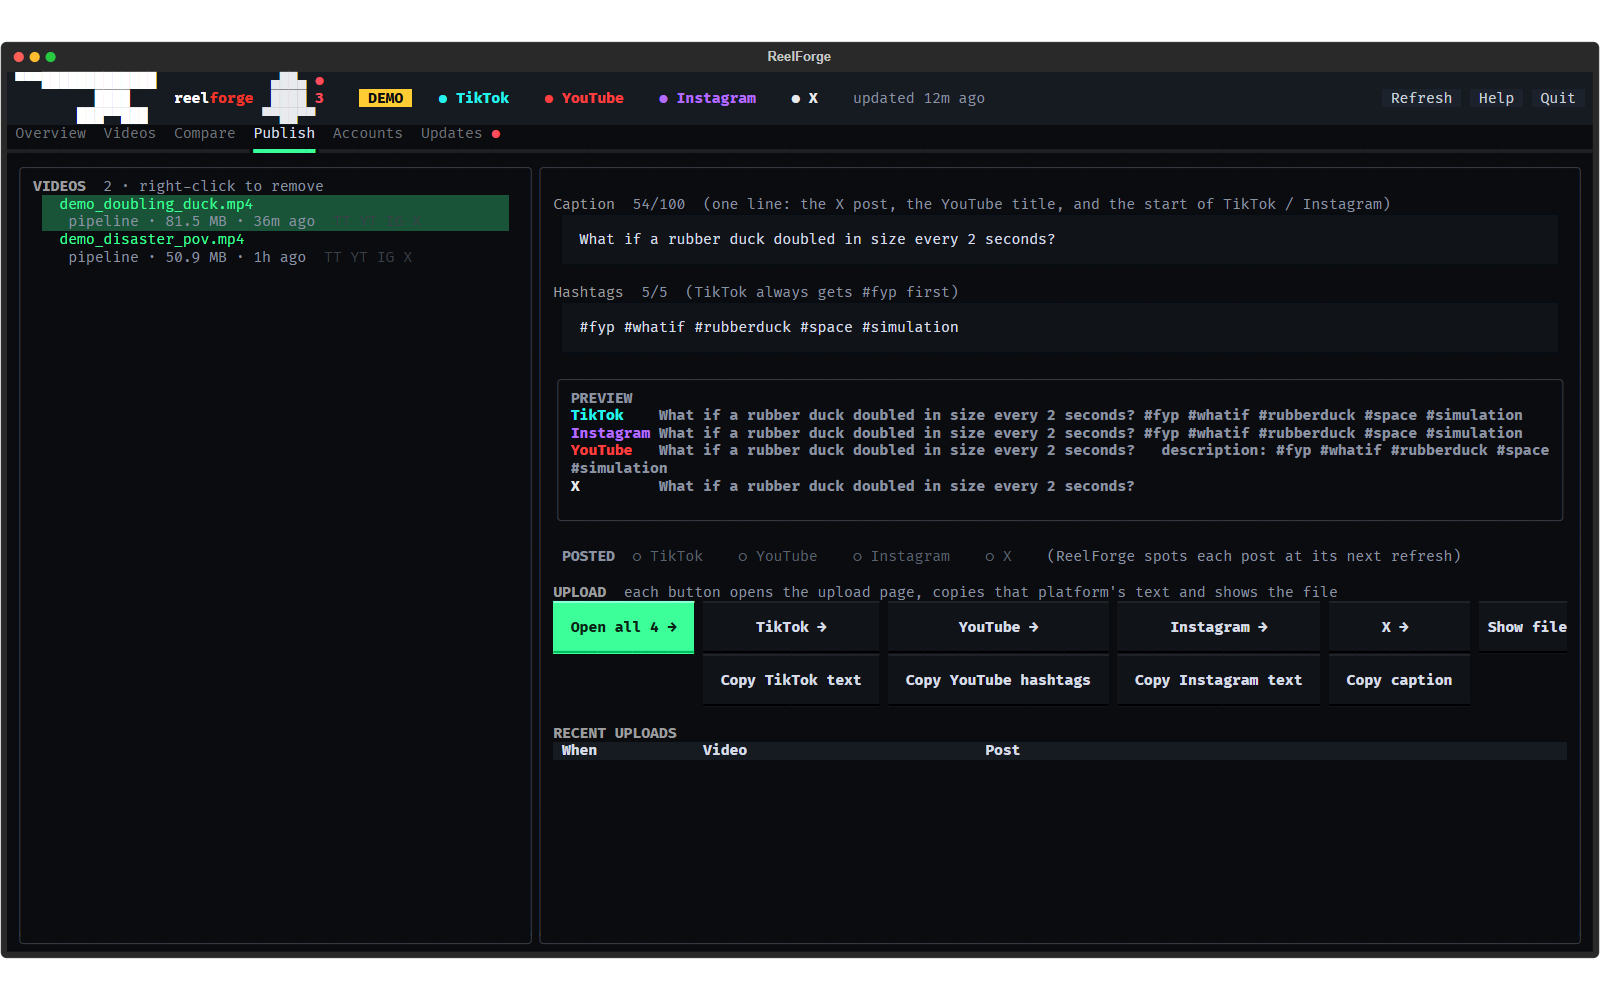
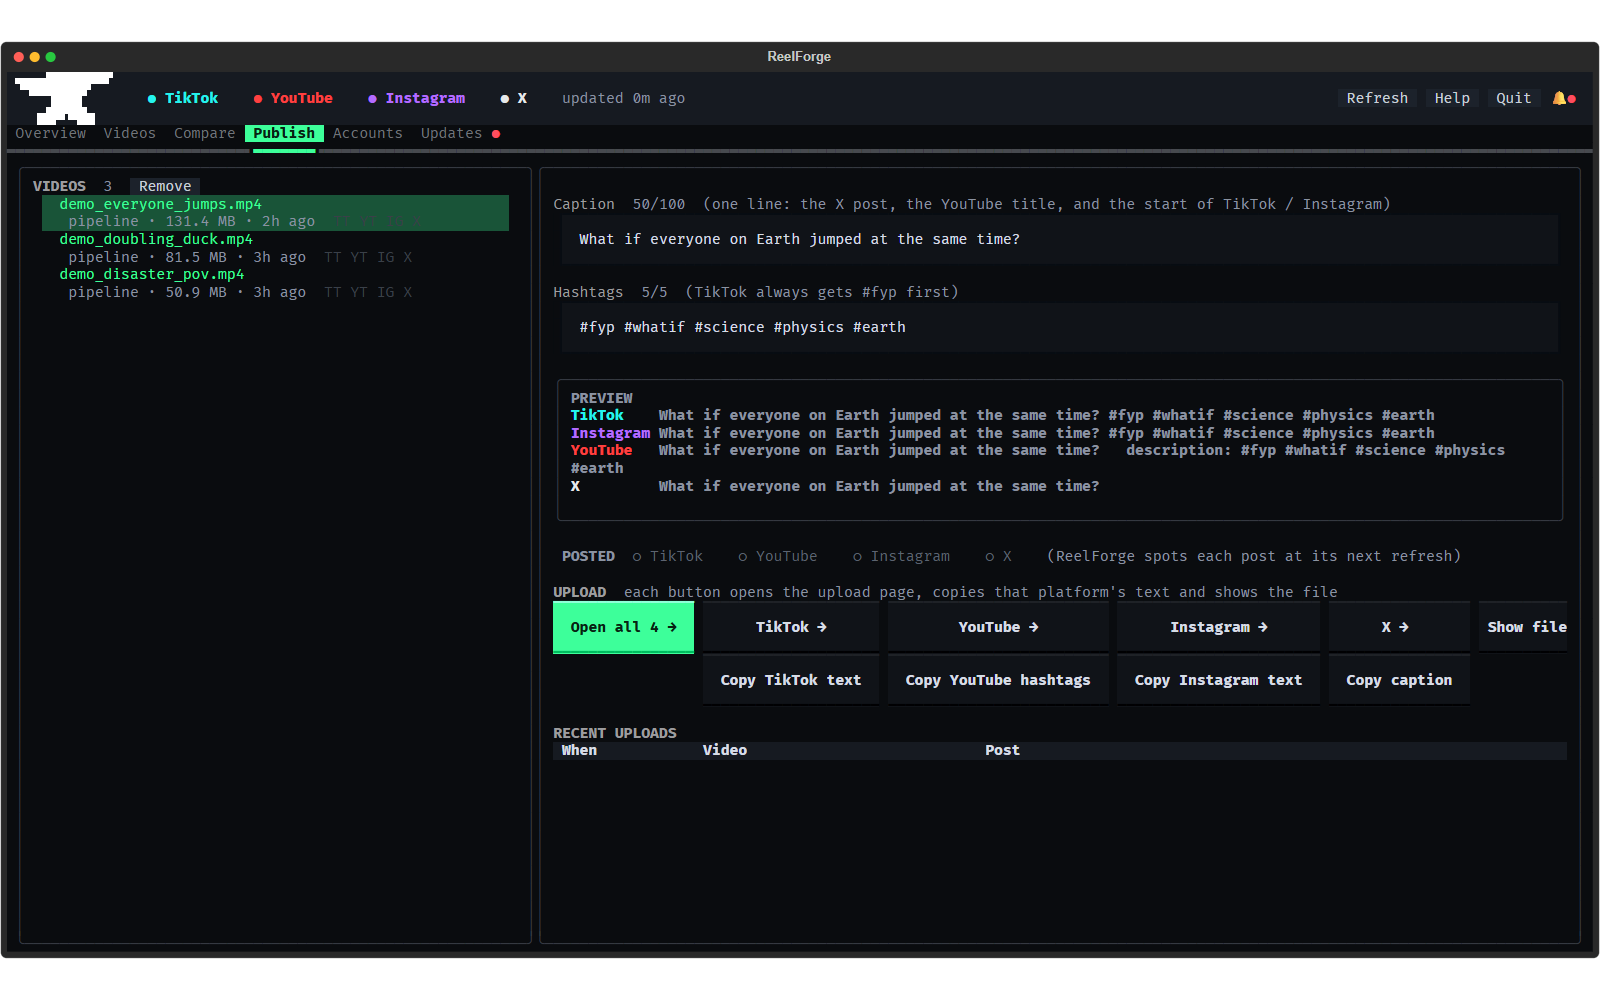
New screenshots, and a script that retakes them
scripts/screenshots.py draws the first-run screens and every tab on the demo data headless, redraws the logo's block characters as exact rectangles (browsers have no font for them) and saves the PNGs for the README and the dashboard guide. REELFORGE_SCREENSHOTS=1 leaves the demo's DEMO labels out of the pictures, so they show what a set-up account looks like; trying the demo still shows them.

diff --git a/scripts/screenshots.py b/scripts/screenshots.py
@@ -1,0 +1,224 @@
+"""Retake the README's screenshots (docs/screenshots/*.png) and the dashboard guide's (dashboard/docs/*.png): the
+first-run screens and every tab of the ReelForge window on its demo data, the way Windows Terminal draws them.
+
+  .venv\\Scripts\\python scripts\\screenshots.py            all of them
+  .venv\\Scripts\\python scripts\\screenshots.py app-publish first-run      just these
+
+Nothing on this computer changes (STUDIO_DRY_SYSTEM=1), the demo data goes to a scratch database, and no window
+opens: each screen is drawn headless with Textual, saved as SVG, then turned into a PNG by Playwright's browser.
+The pictures leave out the demo's DEMO labels (REELFORGE_SCREENSHOTS=1), always have colour (NO_COLOR is ignored
+here), and draw the logo's block characters as exact rectangles, since browsers have no font for them.
+"""
+
+from __future__ import annotations
+
+import asyncio
+import html
+import os
+import re
+import sys
+import tempfile
+from pathlib import Path
+
+ROOT = Path(__file__).resolve().parent.parent
+OUT = ROOT / "docs" / "screenshots"
+GUIDE = ROOT / "dashboard" / "docs"     # the dashboard guide's own pictures (dashboard/README.md)
+os.environ.update(STUDIO_DRY_SYSTEM="1", REELFORGE_SCREENSHOTS="1", REELFORGE_SEXTANTS="1", COLORTERM="truecolor")
+os.environ.pop("NO_COLOR", None)
+sys.path.insert(0, str(ROOT))
+
+APP_SIZE, GUIDE_SIZE, FIRST_RUN_SIZE, ONBOARD_SIZE = (180, 50), (200, 56), (120, 34), (140, 46)
+APP_SHOTS = {  # name: (tab, notifications drawer open, select the first video, terminal size, folder)
+    "app-overview": ("overview", False, False, APP_SIZE, OUT),
+    "app-notifications": ("overview", True, False, APP_SIZE, OUT),
+    "app-videos": ("videos", False, False, APP_SIZE, OUT),
+    "app-compare": ("compare", False, False, APP_SIZE, OUT),
+    "app-publish": ("publish", False, True, APP_SIZE, OUT),
+    "app-accounts": ("accounts", False, False, APP_SIZE, OUT),
+    "app-updates": ("updates", False, False, APP_SIZE, OUT),
+    "overview": ("overview", True, False, GUIDE_SIZE, GUIDE),
+    "updates": ("updates", False, False, GUIDE_SIZE, GUIDE),
+}
+FIRST_RUN_SHOTS = {  # name: (first-run screen, onboarding step)
+    "first-run": ("tools", None),
+    "onboarding-format": ("onboard", 2),
+    "onboarding-look": ("onboard", 4),
+}
+
+
+# ---------------------------------------------------------------- the screens, as SVG
+
+def only_the_demos() -> None:
+    """The Publish tab lists just the kit's own demo videos (examples/), whatever else is in this copy's folders."""
+    from dashboard import videos
+
+    demos = {p.parent.name for p in (ROOT / "examples").glob("*/episode.json")}
+    every = videos.find
+    videos.find = lambda cfg: [f for f in every(cfg) if f.stem in demos]
+
+
+async def app_shot(name: str, work: Path) -> Path:
+    from dashboard import config, db, demo
+    from dashboard.app import ReelForge
+
+    tab, drawer, select, size, _ = APP_SHOTS[name]
+    path = work / "demo.db"
+    for suffix in ("", "-wal", "-shm"):
+        path.with_name(path.name + suffix).unlink(missing_ok=True)
+    db.init(path)
+    demo.seed()
+    app = ReelForge(config.load_config(), demo.platforms(), demo=True, tab=tab, drawer=drawer)
+    async with app.run_test(size=size) as pilot:
+        await pilot.pause(1.0)
+        if select:
+            await pilot.press("down")
+            await pilot.pause(0.5)
+        app.save_screenshot(f"{name}.svg", str(work))
+    return work / f"{name}.svg"
+
+
+async def first_run_shot(name: str, work: Path) -> Path:
+    from studio import firstrun, setup_flow
+    from studio import paths as P
+
+    start, step = FIRST_RUN_SHOTS[name]
+    saved = P.ROOT, setup_flow.plan
+    P.ROOT = Path(r"C:\Users\you\ReelForge")          # a neutral folder in the picture
+    Item = setup_flow.Item
+    setup_flow.plan = lambda: [                       # what a computer with nothing installed sees
+        Item("blender", "Blender 4.5.5", "builds and renders your 3D scenes", False, "about 400 MB from blender.org",
+             400),
+        Item("ffmpeg", "ffmpeg", "turns the frames and sound into your video", False, "about 115 MB from gyan.dev",
+             115),
+        Item("sounds", "Sound effects", "booms, whooshes and hits for your videos", False,
+             "31 from Mixkit, about 55 MB", 55),
+        Item("command", "The reelforge command", "type reelforge in any terminal to open it", False,
+             "no admin rights needed"),
+        Item("shortcut", "Desktop shortcut", "a ReelForge icon on your desktop", True, "ready"),
+    ]
+    app = firstrun.FirstRun(start)
+    async with app.run_test(size=FIRST_RUN_SIZE if start == "tools" else ONBOARD_SIZE) as pilot:
+        await pilot.pause(0.6)
+        if start == "tools":
+            for _ in range(50):
+                await pilot.pause(0.1)
+                if app.screen.query("#items Horizontal"):
+                    break
+            await pilot.pause(0.3)
+        if step is not None:
+            await app.screen.show_step(step)
+            await pilot.pause(0.4)
+        app.save_screenshot(f"{name}.svg", str(work))
+    P.ROOT, setup_flow.plan = saved
+    return work / f"{name}.svg"
+
+
+# ---------------------------------------------------------------- block characters as rectangles
+
+SUB = 6           # sub-rows per cell: sextants use 2 each (3 rows), half blocks 3 each (2 rows)
+OVERLAP = 1.0     # px: neighbouring rectangles overlap, so no hairline shows between them
+BLOCKS = {        # character -> (column, first sub-row, end sub-row) on a 2 x 6 grid
+    "\u2588": [(0, 0, 6), (1, 0, 6)],
+    "\u258c": [(0, 0, 6)],
+    "\u2590": [(1, 0, 6)],
+    "\u2580": [(0, 0, 3), (1, 0, 3)],
+    "\u2584": [(0, 3, 6), (1, 3, 6)],
+}
+
+
+def parts(ch: str) -> list[tuple[int, int, int]] | None:
+    if ch in BLOCKS:
+        return BLOCKS[ch]
+    if not 0x1FB00 <= ord(ch) <= 0x1FB3B:
+        return None
+    bits = ord(ch) - 0x1FB00 + 1   # the sextants are the patterns 1..62 without 21 and 42 (the half blocks)
+    bits += (bits >= 21) + (bits >= 41)
+    return [(p % 2, p // 2 * 2, p // 2 * 2 + 2) for p in range(6) if bits >> p & 1]
+
+
+def draw_blocks(svg: str) -> str:
+    fills = dict(re.findall(r"\.([\w-]+)\s*\{\s*fill:\s*(#[0-9a-fA-F]{6})", svg))
+    tops = {cid: float(y) for cid, y in re.findall(
+        r'<clipPath id="([^"]+-line-\d+)">\s*<rect x="[\d.]+" y="([\d.]+)" width="[\d.]+" height="[\d.]+"\s*/>', svg)}
+    ys = sorted(tops.values())
+    pitch = ys[1] - ys[0] if len(ys) > 1 else 24.4
+    rects: list[str] = []
+
+    def replace(m: re.Match) -> str:
+        cls, x, y, length, rest, body = m.groups()
+        text = html.unescape(body)
+        cells = [parts(ch) for ch in text]
+        if not any(cells):
+            return m.group(0)
+        clip = re.search(r'clip-path="url\(#([^)]+)\)"', rest)
+        top = tops.get(clip.group(1)) if clip else None
+        top = float(y) - 18.5 if top is None else top
+        cw = float(length) / len(text)
+        fill = fills.get(cls.split()[0], "#ffffff")
+        on = [[False] * (2 * len(text)) for _ in range(SUB)]
+        for i, cell in enumerate(cells):
+            for col, r0, r1 in cell or []:
+                for r in range(r0, r1):
+                    on[r][2 * i + col] = True
+        for r, row in enumerate(on):
+            c = 0
+            while c < len(row):
+                if not row[c]:
+                    c += 1
+                    continue
+                e = c
+                while e < len(row) and row[e]:
+                    e += 1
+                rects.append(f'<rect x="{float(x) + c * cw / 2:.2f}" y="{top + r * pitch / SUB:.2f}" '
+                             f'width="{(e - c) * cw / 2 + OVERLAP:.2f}" height="{pitch / SUB + OVERLAP:.2f}" '
+                             f'fill="{fill}" shape-rendering="crispEdges"/>')
+                c = e
+        new = "".join("&#160;" if cell or ch == " " else html.escape(ch) for ch, cell in zip(text, cells))
+        return m.group(0).replace(">" + body + "</text>", ">" + new + "</text>")
+
+    svg = re.sub(r'<text class="([^"]+)" x="([\d.]+)" y="([\d.]+)" textLength="([\d.]+)"([^>]*)>(.*?)</text>',
+                 replace, svg)
+    if rects:   # inside the text's own group, so the window's offsets apply to them too
+        start = re.search(r'<g class="[^"]+-matrix">', svg)
+        end = svg.index("</g>", start.end())
+        svg = svg[:end] + "".join(rects) + svg[end:]
+    return svg
+
+
+# ---------------------------------------------------------------- SVG to PNG
+
+async def to_png(svgs: list[Path]) -> None:
+    from playwright.async_api import async_playwright
+
+    async with async_playwright() as p:
+        browser = await p.chromium.launch(channel="msedge" if sys.platform == "win32" else None)
+        page = await browser.new_page(viewport={"width": 1600, "height": 1000}, device_scale_factor=1)
+        for svg in svgs:
+            png = (APP_SHOTS[svg.stem][4] if svg.stem in APP_SHOTS else OUT) / f"{svg.stem}.png"
+            await page.goto(svg.resolve().as_uri())
+            await (await page.query_selector("svg")).screenshot(path=str(png))
+            print("wrote", png.relative_to(ROOT))
+        await browser.close()
+
+
+async def main(names: list[str]) -> int:
+    unknown = [n for n in names if n not in APP_SHOTS and n not in FIRST_RUN_SHOTS]
+    if unknown:
+        print("unknown:", ", ".join(unknown), "| choose from:", ", ".join([*FIRST_RUN_SHOTS, *APP_SHOTS]))
+        return 2
+    names = names or [*FIRST_RUN_SHOTS, *APP_SHOTS]
+    only_the_demos()
+    with tempfile.TemporaryDirectory(prefix="reelforge-shots-") as tmp:
+        work = Path(tmp)
+        svgs = []
+        for name in names:
+            svg = await (first_run_shot if name in FIRST_RUN_SHOTS else app_shot)(name, work)
+            svg.write_text(draw_blocks(svg.read_text(encoding="utf-8")), encoding="utf-8")
+            svgs.append(svg)
+        OUT.mkdir(parents=True, exist_ok=True)
+        await to_png(svgs)
+    return 0
+
+
+if __name__ == "__main__":
+    sys.exit(asyncio.run(main(sys.argv[1:])))

diff --git a/dashboard/widgets.py b/dashboard/widgets.py
@@ -3,6 +3,8 @@ platform cards and account panels."""
 
 from __future__ import annotations
 
+import os
+
 from rich.cells import cell_len
 from rich.style import Style
 from rich.text import Text
@@ -25,6 +27,9 @@ BAD = "#ff4d5e"
 TYPICAL = "#ffb020"  # the "typical video" line: amber, unlike any platform colour
 EIGHTHS = " ▏▎▍▌▋▊▉"
 SHORT = {"tiktok": "TT", "youtube": "YT", "instagram": "IG", "x": "X"}
+# REELFORGE_SCREENSHOTS=1 is for the README's pictures of the demo: no DEMO badge and no "demo data" lines, so they
+# show what a set-up account looks like. Trying the demo yourself always shows them.
+SCREENSHOTS = os.environ.get("REELFORGE_SCREENSHOTS", "").strip() == "1"
 
 def dim(hex_color: str, amount: float = 0.65) -> str:
     return Color.parse(hex_color).blend(Color.parse(BACKGROUND), amount).hex
@@ -442,6 +447,9 @@ class AccountPanel(Vertical):
     def __init__(self, platform: Platform, demo: bool):
         super().__init__(classes="account", id=f"acct-{platform.key}")
         self.platform, self.demo = platform, demo
+        # The README's pictures show the demo as a set-up account would look (see SCREENSHOTS).
+        self.pretend = demo and SCREENSHOTS
+        self.logs_in = platform.browser_stats and not demo or self.pretend and platform.key in ("instagram", "x")
         self.border_title = platform.name
 
     def compose(self) -> ComposeResult:
@@ -450,10 +458,11 @@ class AccountPanel(Vertical):
         key = self.platform.key
         yield Static(classes="acct-body")
         with Horizontal(classes="acct-buttons"):
-            if self.platform.browser_stats and not self.demo:
+            if self.logs_in:
                 yield Button("Log in", id=f"login-{key}", classes="login-btn", variant="primary")
             yield Button("Open profile", id=f"profile-{key}", classes="profile-btn")
-            yield Button("Refresh now", id=f"refresh-{key}", classes="refresh-btn", disabled=self.demo)
+            yield Button("Refresh now", id=f"refresh-{key}", classes="refresh-btn",
+                         disabled=self.demo and not self.pretend)
             # Only while ReelForge can't read this platform itself (see show()).
             yield Button("Type in stats", id=f"log-{key}", classes="log-btn")
         yield Static(classes="acct-note")
@@ -467,7 +476,9 @@ class AccountPanel(Vertical):
     def show(self, latest, info: dict) -> None:
         """info: posts (videos tracked), since (first reading), error (last failed read), due (next refresh)."""
         p = self.platform
-        source = "demo" if self.demo else p.stats_source
+        source = "demo" if self.demo and not self.pretend else p.stats_source
+        if self.pretend and self.logs_in:
+            source = "browser"  # what Instagram and X say once you've logged in
         body = Text()
         if source == "demo":
             body.append("● demo data\n", style=f"bold {GOOD}")
@@ -492,11 +503,11 @@ class AccountPanel(Vertical):
             body.append(f"last read failed: {info['error']}\n", style=BAD)
         body.rstrip()
         self.query_one(".acct-body", Static).update(body)
-        note = "Demo data, made up on this PC." if self.demo else p.setup_note
+        note = "Demo data, made up on this PC." if self.demo and not self.pretend else p.setup_note
         self.query_one(".acct-note", Static).update(Text(note, style=MUTED))
-        if p.browser_stats and not self.demo:
+        if self.logs_in:
             self.query_one(f"#login-{p.key}", Button).label = "Log in again" if source == "browser" else "Log in"
-        self.query_one(f"#profile-{p.key}", Button).disabled = not p.public_handle
+        self.query_one(f"#profile-{p.key}", Button).disabled = not p.public_handle and not self.pretend
         self.query_one(f"#log-{p.key}", Button).display = not p.has_stats
         # Followers over time, when there's enough history to draw: (heading, draw, slots, describe(slot)).
         plot, title = self.query_one(Plot), self.query_one(".acct-chart-title", Static)

diff --git a/dashboard/app.py b/dashboard/app.py
@@ -28,9 +28,9 @@ from .analytics import fmt_age, fmt_ago, fmt_clock, fmt_delta, fmt_num, fmt_pct
 from .platforms import Platform, PlatformError, PublishItem, browser
 from .platforms.base import Account, Post
 from .screens import EpisodePicker, HelpScreen, LogStats, VideoMenu
-from .widgets import (BAD, GOOD, MUTED, SHORT, TYPICAL, AccountPanel, ActionText, Bars, Bell, ChartPanel, Logo,
-                      PlatformCard, TotalCard, VideoList, change_text, chip, chips, clickable, legend, num,
-                      score_text, tag)
+from .widgets import (BAD, GOOD, MUTED, SCREENSHOTS, SHORT, TYPICAL, AccountPanel, ActionText, Bars, Bell,
+                      ChartPanel, Logo, PlatformCard, TotalCard, VideoList, change_text, chip, chips, clickable,
+                      legend, num, score_text, tag)
 
 try:  # the ReelForge folder's own package: its version and the updater
     from studio import KIT_VERSION
@@ -444,7 +444,7 @@ class ReelForge(App):
 
     def update_header(self) -> None:
         t = Text()
-        if self.demo:
+        if self.demo and not SCREENSHOTS:
             t.append(" DEMO ", style="bold #0a0c0f on #ffcc33")
             t.append("   ")
         for p in self.platforms.values():
@@ -1569,10 +1569,11 @@ class ReelForge(App):
     def start_updates(self) -> None:
         """The Updates tab from the last check, a new check when that's old, and "Updated to ..." after a restart."""
         if self.demo:
-            from .demo import SAMPLE_UPDATE
+            from .demo import SAMPLE_UPDATE, SCREENSHOT_NOTES
 
             self.update_info = {"current": KIT_VERSION or "1.0.0", "latest": SAMPLE_UPDATE[0], "newer": True,
-                                "notes": SAMPLE_UPDATE[1], "url": "", "error": "", "checked": db.now_iso()}
+                                "notes": SCREENSHOT_NOTES if SCREENSHOTS else SAMPLE_UPDATE[1], "url": "", "error": "",
+                                "checked": db.now_iso()}
             self.show_update()
             return
         if kit_update is None:
@@ -1642,10 +1643,11 @@ class ReelForge(App):
         if info.get("checked"):
             out.append(f"\nchecked {fmt_ago(info['checked'])}", style=MUTED)
         status.update(out)
+        live = not self.demo or SCREENSHOTS  # the README's pictures show the tab as it looks for real
         apply.display = newer
-        apply.disabled = self.updating or self.demo
-        apply.label = "Update and restart" + (" (demo)" if self.demo else "")
-        check.disabled = self.updating or self.demo
+        apply.disabled = self.updating or not live
+        apply.label = "Update and restart" + ("" if live else " (demo)")
+        check.disabled = self.updating or not live
         self.query_one("#update-progress").display = self.updating
         if newer:
             notes.update(info.get("notes") or f"Release notes: {info.get('url')}")
@@ -1654,7 +1656,7 @@ class ReelForge(App):
                          "tells you, and this tab updates ReelForge in one click.")
         else:
             notes.update("ReelForge checks for a new version every few hours while it's open.")
-        kind = kit_update.install_kind() if kit_update else ""
+        kind = "installer" if self.demo and SCREENSHOTS else kit_update.install_kind() if kit_update else ""
         how.update(Text({
             "installer": "Installed with the Windows installer: an update runs the new installer quietly into this "
                          "folder.",

diff --git a/dashboard/demo.py b/dashboard/demo.py
@@ -60,6 +60,10 @@ _SEEDED: dict[tuple[str, str], tuple[str, datetime, list[float], dict]] = {}
 _START: dict[str, float] = {}  # followers before the first post
 SAMPLE_UPDATE = ("1.1.0", "## What's new\n\n- Sample release notes: this is demo mode, so nothing is downloaded.\n"
                           "- A real update downloads the new version and restarts ReelForge in one click.")
+# The same, as the README's pictures show it (REELFORGE_SCREENSHOTS=1): notes like a real release's.
+SCREENSHOT_NOTES = ("## What's new\n\n- A sharper logo in Windows Terminal.\n"
+                    "- Charts that read right at every window size: narrow ones combine hours.\n"
+                    "- Notifications sit behind the bell at the top right.")
 
 
 def _schedule(now: datetime, count: int) -> list[datetime]:

diff --git a/dashboard/README.md b/dashboard/README.md
@@ -25,7 +25,7 @@ maximised. Everything is a button on the page it applies to; the only keys are *
 
 | Tab | What's on it |
 |---|---|
-| **1 Overview** | A card per platform (and all of them added up): followers, views, likes, the change over 24 hours and views per hour. Under the cards, today's **badges** (below). Then **views**, **followers** and **likes** gained per hour (per 6 hours on 7D, per day on 30D), stacked by platform, with yellow ▼ marks where each video went up, your **top performers** and how your **latest video** is doing. |
+| **1 Overview** | A card per platform (and all of them added up): followers, views, likes, the change over 24 hours and views per hour. Under the cards, today's **badges** (below). Then **views**, **followers** and **likes** gained over time, stacked by platform: each bar is the shortest stretch the window has room for (an hour on 24H when it's wide enough, a few hours or a day on the longer ranges), with yellow ▼ marks where each video went up, your **top performers** and how your **latest video** is doing. |
 | **2 Videos** | Every video on every platform: views, likes, comments, shares, engagement, share rate, views per hour and score. Click a header to sort. Above the chart, the highlighted video's **badges**. **Fix episode** if a post was grouped with the wrong video; **Export CSV** saves everything as a spreadsheet. |
 | **3 Compare** | The **platform scoreboard**, or one video side by side on every platform against that platform's typical video. |
 | **4 Publish** | Finished videos, newest first, with the platforms each one is already on. Pick one, check the caption and hashtags (the preview shows exactly what each platform gets), then use the platform buttons. |
